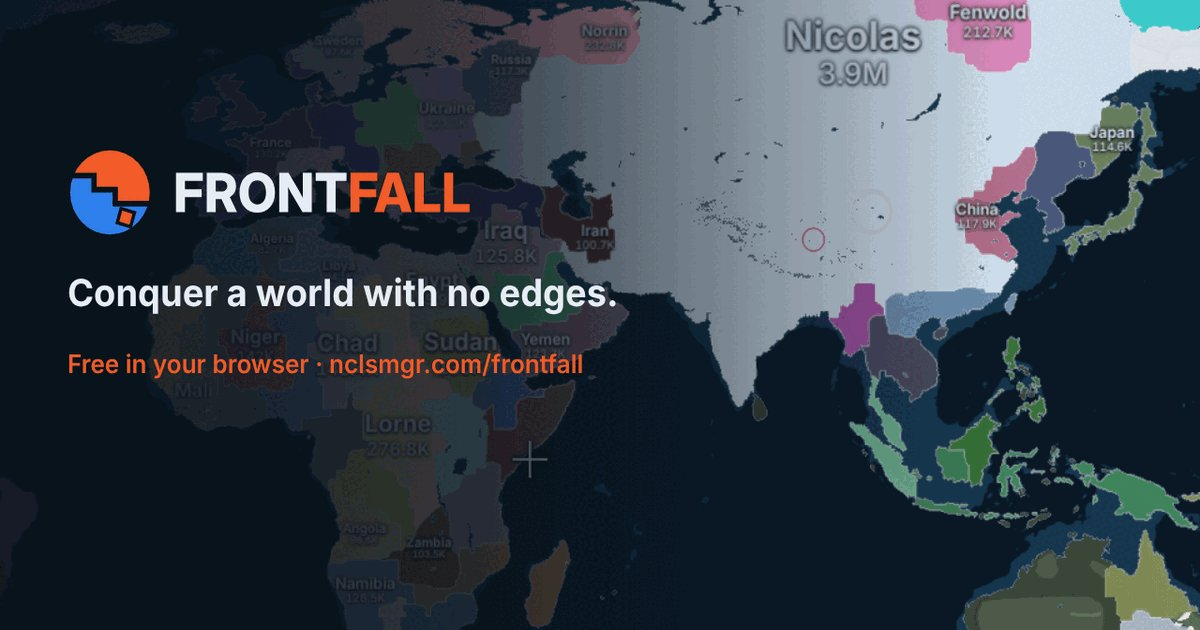
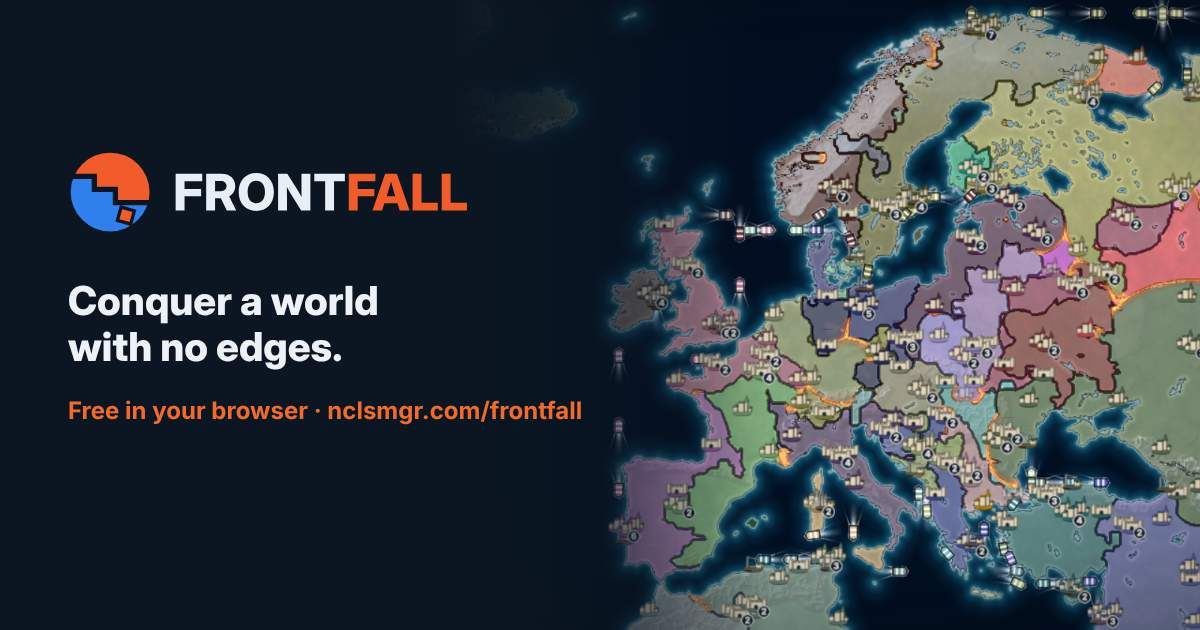
feat(client): show today's look in the link preview and on the About page
The share image and the About page picture still showed the 0.6 map. Both are now a
capture of a game on the Europe map with the current relief and stained-glass countries,
and they weigh 16 kB less (JPEG q65, WebP q60). The picture's alt text follows.

diff --git a/apps/client/public/about.fr.html b/apps/client/public/about.fr.html
@@ -46,7 +46,7 @@
         src="./about-world.webp"
         width="960"
         height="645"
-        alt="Une partie sur la carte du Monde : une douzaine d'empires répartis sur les continents, chacun avec son nom et ses troupes"
+        alt="Une partie sur la carte d'Europe : une vingtaine de pays en vitrail, leurs villes, leurs navires et des fronts en feu"
       />
 
       <h2>Comment jouer</h2>

diff --git a/apps/client/public/about.html b/apps/client/public/about.html
@@ -46,7 +46,7 @@
         src="./about-world.webp"
         width="960"
         height="645"
-        alt="A game on the World map: a dozen empires spread across the continents, each with its name and troops"
+        alt="A game on the Europe map: about twenty stained-glass countries, their cities, their ships and burning fronts"
       />
 
       <h2>How to play</h2>

diff --git a/CHANGELOG.md b/CHANGELOG.md
@@ -10,6 +10,7 @@ Every release of Frontfall and what it changes in play, newest first. The format
 - **Cleaner fronts.** The embers of a front now drift up from anywhere on the land just taken instead of forming a grid of dots, and its glow follows the line smoothly at every zoom, without steps.
 - **Lighter countries.** A country's colour is now a light glass over the land, gathered along its border, so the relief and the ground stay visible once the map is conquered; pale colours no longer wash the map out.
 - **A calmer map late in a game.** Zoomed out, a player's cities, forts and ports that stand close together are drawn as one piece with a count from further apart, so the map is no longer covered with pieces.
+- **A fresh look when the game is shared.** The link preview and the picture on the About page now show the game as it looks today, on the Europe map.
 
 ### For self-hosters and contributors
 
